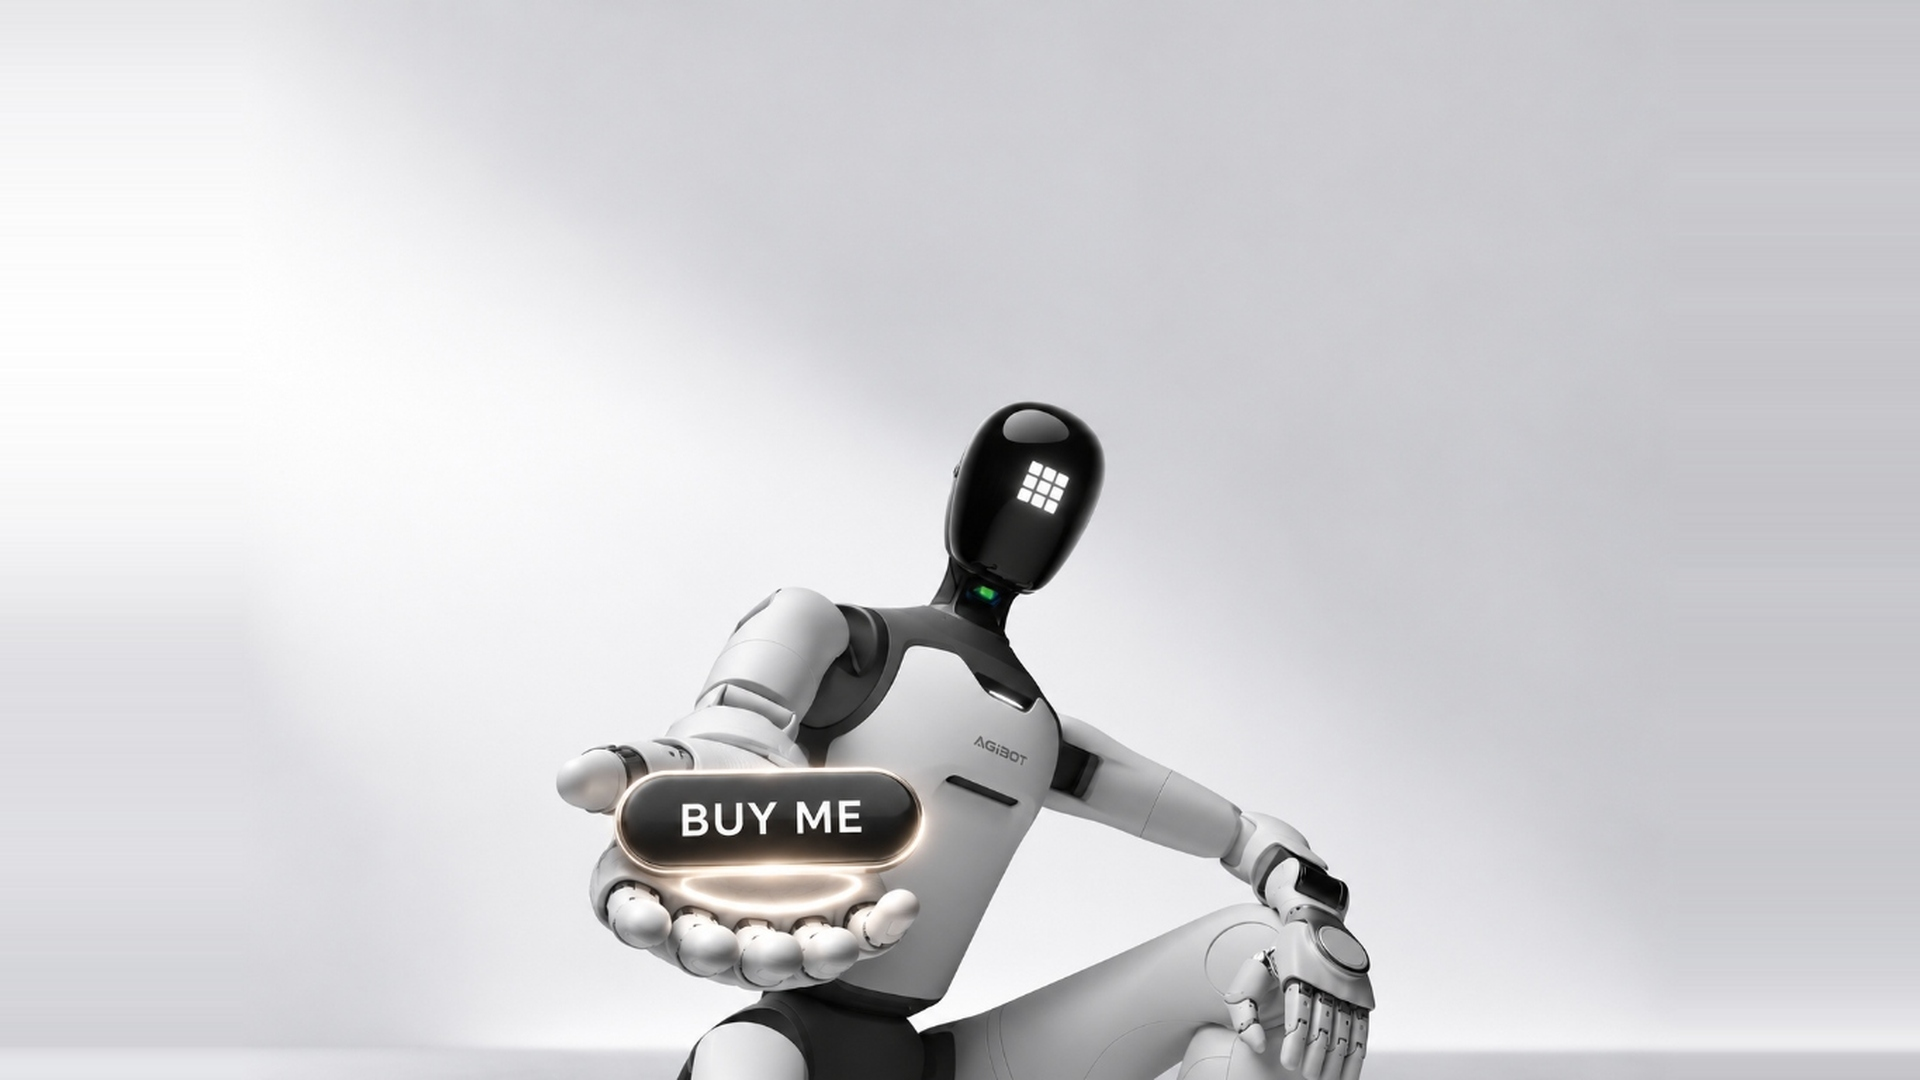
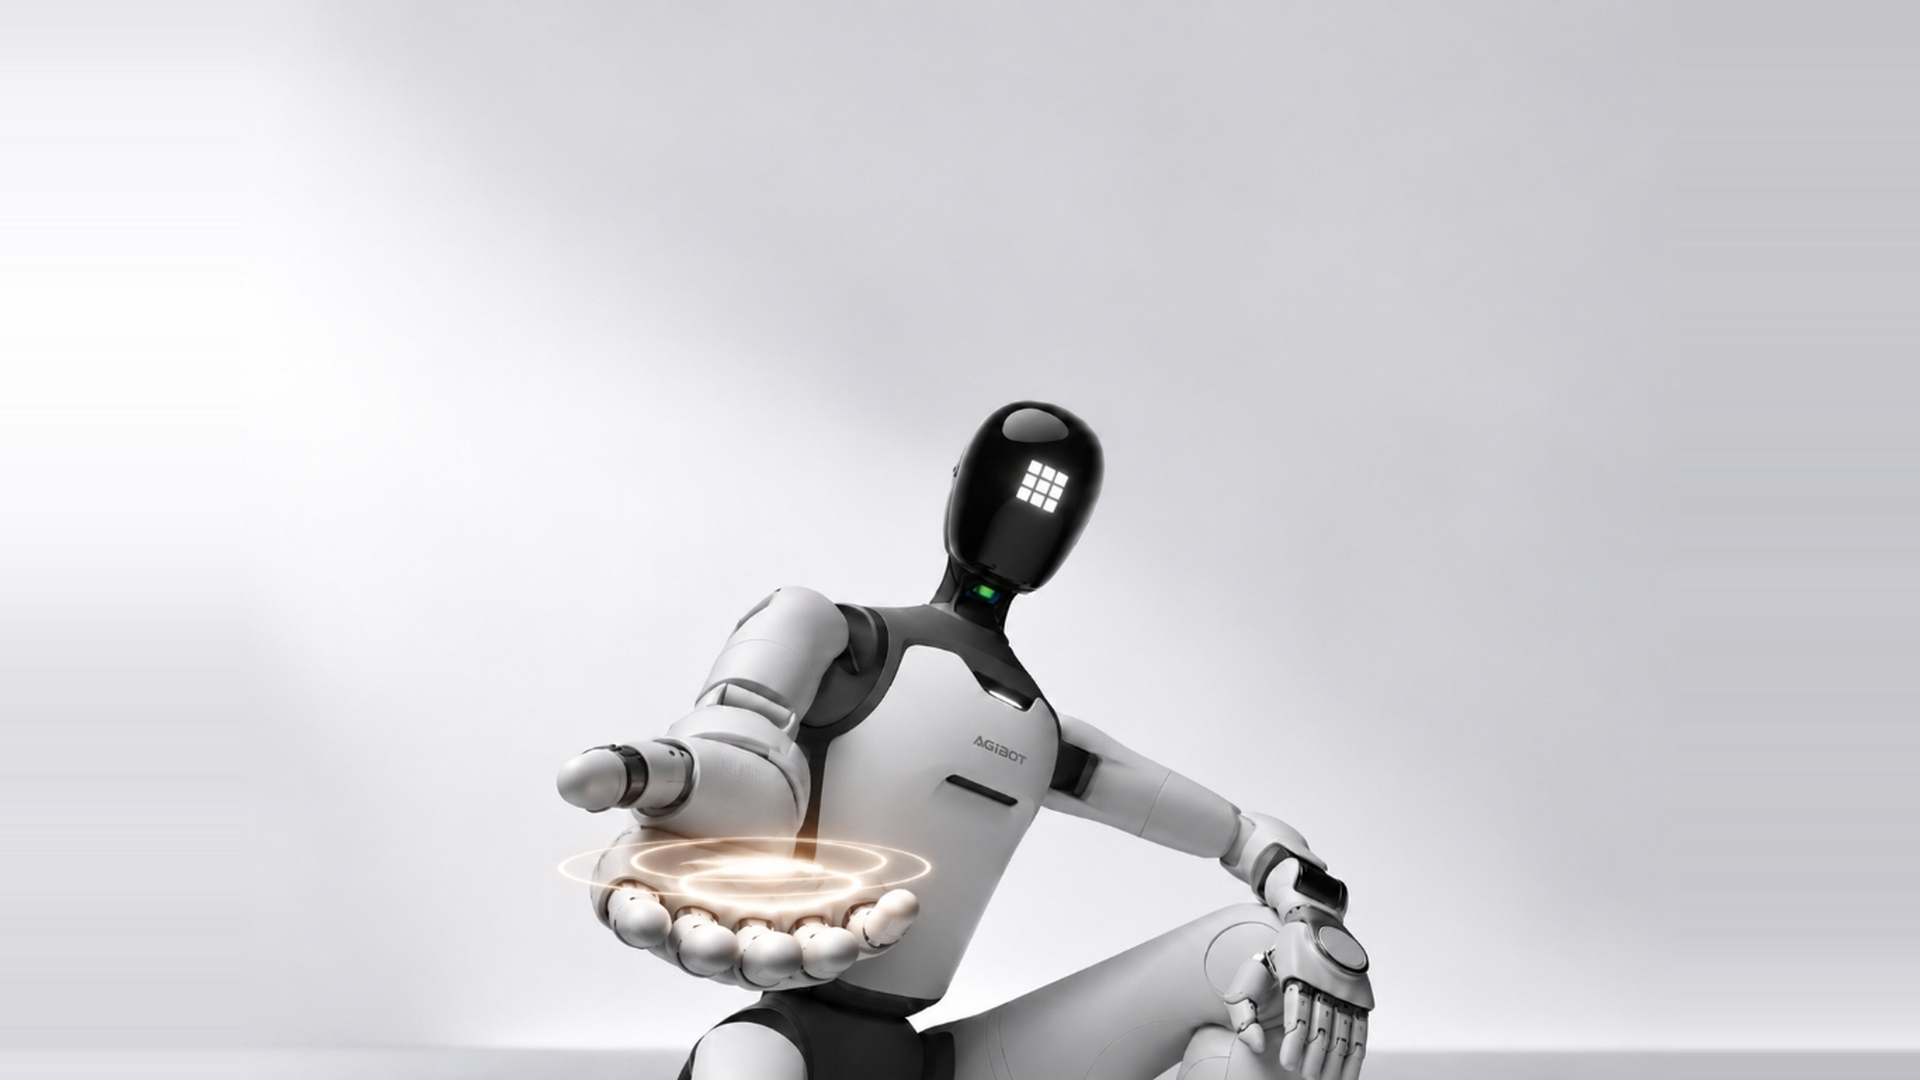
feat(products): replace background with newly uploaded image featuring open palm and glowing concentric holographic rings

diff --git a/Frontend/src/components/products/ProductRobotPurchaseSection.tsx b/Frontend/src/components/products/ProductRobotPurchaseSection.tsx
@@ -138,69 +138,78 @@ export default function ProductRobotPurchaseSection({
             />
 
             {/* =====================================================================
-                REAL INTERACTIVE "BUY ME" BUTTON HOTSPOT
-                Positioned with mathematical precision directly on the 3D capsule:
-                Center: X = 39.84%, Y = 75.09%
-                Width = 14.7%, Height = 8.0%
+                REAL FLOATING "BUY ME" CAPSULE BUTTON
+                Hovering directly above the concentric holographic rings on the palm
+                Center: X = 39.61%, Y = 74.50%
                 ===================================================================== */}
             <div
               className="absolute pointer-events-auto z-20"
               style={{
-                left: '39.84%',
-                top: '75.09%',
-                width: '14.7%',
-                height: '8.0%',
+                left: '39.61%',
+                top: '74.50%',
+                width: '14.5%',
+                minWidth: '175px',
+                maxWidth: '285px',
                 transform: 'translate(-50%, -50%)',
               }}
             >
-              {/* Interactive Capsule Trigger */}
-              <button
-                type="button"
-                onClick={handleButtonClick}
-                onMouseEnter={() => setIsHovered(true)}
-                onMouseLeave={() => setIsHovered(false)}
-                onFocus={() => setIsHovered(true)}
-                onBlur={() => setIsHovered(false)}
-                aria-label={`Buy ${product.name} Now`}
-                className="group relative w-full h-full rounded-full flex items-center justify-center cursor-pointer transition-all duration-300 active:scale-95 focus:outline-none"
-                style={{
-                  boxShadow: isHovered
-                    ? '0 0 35px rgba(255, 230, 180, 0.85), 0 0 70px rgba(255, 255, 255, 0.6), inset 0 0 15px rgba(255, 255, 255, 0.25)'
-                    : '0 0 18px rgba(255, 220, 170, 0.35)',
+              {/* Floating Animation Wrapper */}
+              <motion.div
+                animate={{
+                  y: isHovered ? -8 : [0, -5, 0],
+                  scale: isHovered ? 1.06 : 1,
                 }}
+                transition={{
+                  y: isHovered 
+                    ? { duration: 0.25, ease: 'easeOut' }
+                    : { repeat: Infinity, duration: 3.2, ease: 'easeInOut' },
+                  scale: { duration: 0.25, ease: 'easeOut' }
+                }}
+                className="relative w-full flex items-center justify-center"
               >
-                {/* When custom text is provided by admin: render solid capsule overlay */}
-                {customButtonText ? (
-                  <div className="absolute inset-0 rounded-full bg-[#0c0d12] border-2 border-[#dfc39a] flex items-center justify-center shadow-xl">
-                    <span className="text-white font-black text-xs sm:text-sm md:text-base tracking-[0.16em] uppercase">
-                      {customButtonText}
-                    </span>
-                  </div>
-                ) : (
-                  /* Standard Mode: Seamlessly enhances the 3D button in the reference image */
-                  <>
-                    {/* Golden Holographic Beveled Rim that lights up on hover */}
-                    <div 
-                      className={`absolute inset-0 rounded-full border-2 transition-all duration-300 pointer-events-none ${
-                        isHovered 
-                          ? 'border-[#ffe4bd] opacity-100 scale-[1.02]' 
-                          : 'border-transparent opacity-0'
-                      }`}
-                    />
+                {/* Holographic Warm-White Illuminated Ring / Halo beneath capsule */}
+                <div 
+                  className={`absolute -bottom-3 left-1/2 -translate-x-1/2 w-[88%] h-4 rounded-[100%] bg-gradient-to-r from-transparent via-[#fff1dc] to-transparent blur-[3px] pointer-events-none transition-all duration-300 ${
+                    isHovered ? 'opacity-100 scale-110' : 'opacity-85 animate-pulse'
+                  }`}
+                  style={{
+                    boxShadow: isHovered 
+                      ? '0 0 30px rgba(255, 230, 180, 0.95), 0 0 50px rgba(255, 255, 255, 0.8)' 
+                      : '0 0 18px rgba(255, 220, 175, 0.65)'
+                  }}
+                />
 
-                    {/* Animated Golden Sheen Sweep on hover */}
-                    <div className="absolute inset-0 rounded-full overflow-hidden pointer-events-none">
-                      <div className="w-full h-full -translate-x-full group-hover:translate-x-full transition-transform duration-1000 bg-gradient-to-r from-transparent via-white/35 to-transparent" />
-                    </div>
+                {/* Real High-Gloss Champagne-Gold Rimmed Capsule Button */}
+                <button
+                  type="button"
+                  onClick={handleButtonClick}
+                  onMouseEnter={() => setIsHovered(true)}
+                  onMouseLeave={() => setIsHovered(false)}
+                  onFocus={() => setIsHovered(true)}
+                  onBlur={() => setIsHovered(false)}
+                  aria-label={`Buy ${product.name} Now`}
+                  className="group relative w-full aspect-[3.25/1] rounded-full border-2 border-[#dfc39a] hover:border-[#ffe8c5] text-white font-black tracking-[0.18em] uppercase flex items-center justify-center shadow-2xl transition-all duration-300 active:scale-95 cursor-pointer overflow-hidden focus:outline-none focus:ring-4 focus:ring-[#dfc39a]/50"
+                  style={{
+                    background: 'linear-gradient(180deg, #1b1d26 0%, #0d0e14 55%, #06070a 100%)',
+                    boxShadow: isHovered
+                      ? '0 16px 38px -6px rgba(0, 0, 0, 0.9), 0 0 40px rgba(255, 230, 180, 0.8), inset 0 1px 2px rgba(255, 255, 255, 0.5)'
+                      : '0 10px 28px -5px rgba(0, 0, 0, 0.8), 0 0 20px rgba(255, 220, 175, 0.45), inset 0 1px 2px rgba(255, 255, 255, 0.35)',
+                  }}
+                >
+                  {/* Top-half Glass Highlight Gradient Reflection */}
+                  <div className="absolute top-0 inset-x-0 h-1/2 bg-gradient-to-b from-white/30 via-white/10 to-transparent rounded-t-full pointer-events-none" />
 
-                    {/* Subtle Pulsing Warm Halo beneath capsule */}
-                    <div 
-                      className={`absolute -bottom-2 left-1/2 -translate-x-1/2 w-[85%] h-3 rounded-[100%] bg-gradient-to-r from-transparent via-[#fff0da] to-transparent blur-[3px] pointer-events-none transition-all duration-300 ${
-                        isHovered ? 'opacity-100 scale-110' : 'opacity-60 animate-pulse'
-                      }`}
-                    />
-                  </>
-                )}
+                  {/* Inner Metallic Border Glow */}
+                  <div className="absolute inset-[1px] rounded-full border border-white/15 pointer-events-none" />
+
+                  {/* Button Typography: White uppercase "BUY ME" or custom name */}
+                  <span className="relative z-10 text-xs sm:text-sm md:text-base font-extrabold text-white drop-shadow-md tracking-[0.18em] transition-transform duration-200 group-hover:scale-105 flex items-center justify-center space-x-1.5">
+                    <span>{customButtonText || 'BUY ME'}</span>
+                  </span>
+
+                  {/* Hover Sheen Sweep Animation */}
+                  <div className="absolute inset-0 -translate-x-full group-hover:translate-x-full transition-transform duration-1000 bg-gradient-to-r from-transparent via-white/30 to-transparent pointer-events-none" />
+                </button>
 
                 {/* Floating Interactive Badge Prompt on Hover */}
                 <div 
@@ -211,7 +220,7 @@ export default function ProductRobotPurchaseSection({
                   <Sparkles className="w-3.5 h-3.5 text-amber-300 animate-spin" style={{ animationDuration: '3s' }} />
                   <span>Click to Configure &amp; Acquire {product.name}</span>
                 </div>
-              </button>
+              </motion.div>
             </div>
           </div>
         </div>

diff --git a/Frontend/src/components/products/AdminProductEditorDrawer.tsx b/Frontend/src/components/products/AdminProductEditorDrawer.tsx
@@ -73,8 +73,8 @@ export default function AdminProductEditorDrawer({
     { label: 'D1 CAD Blueprint', url: '/uploads/images/products/d1_anatomy_diagram.jpg' },
     { label: 'G2 CAD Blueprint', url: '/uploads/images/20261029/62974a39fa9e903d8e47b2cd2befc16e.png' },
     { label: 'C5 CAD Blueprint', url: '/uploads/images/products/c5_anatomy_diagram.jpg' },
-    { label: 'Cinematic Buy Me Robot', url: '/images/products/robot_buy_me_clean.jpg' },
-    { label: 'Cinematic Buy Me Reference', url: '/images/products/robot_buy_me_cinematic.jpg' },
+    { label: 'Cinematic Buy Me Hologram (1080p)', url: '/images/products/robot_buy_me_1920x1080.jpg' },
+    { label: 'Cinematic Buy Me Hologram (Original)', url: '/images/products/robot_buy_me_cinematic.jpg' },
   ];
 
   // Font Family Presets
